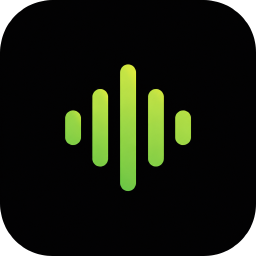
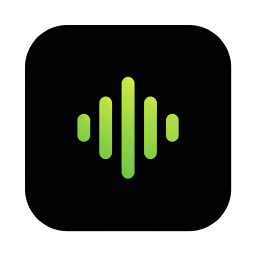
build(release): bump version to 1.0.10+11
- Set pubspec version to 1.0.10+11
- Drop bundled artwork asset declarations and files
- Bundle the YouTube.js license for the licenses page
- Use a padded icon for macOS; keep full-bleed icons elsewhere

diff --git a/lib/src/app/bundled_licenses.dart b/lib/src/app/bundled_licenses.dart
@@ -13,4 +13,10 @@ void registerBundledLicenses() {
     );
     yield LicenseEntryWithLineBreaks(const <String>['MiSans'], license);
   });
+  LicenseRegistry.addLicense(() async* {
+    final license = await rootBundle.loadString(
+      'assets/licenses/YouTube.js_LICENSE',
+    );
+    yield LicenseEntryWithLineBreaks(const <String>['YouTube.js'], license);
+  });
 }
